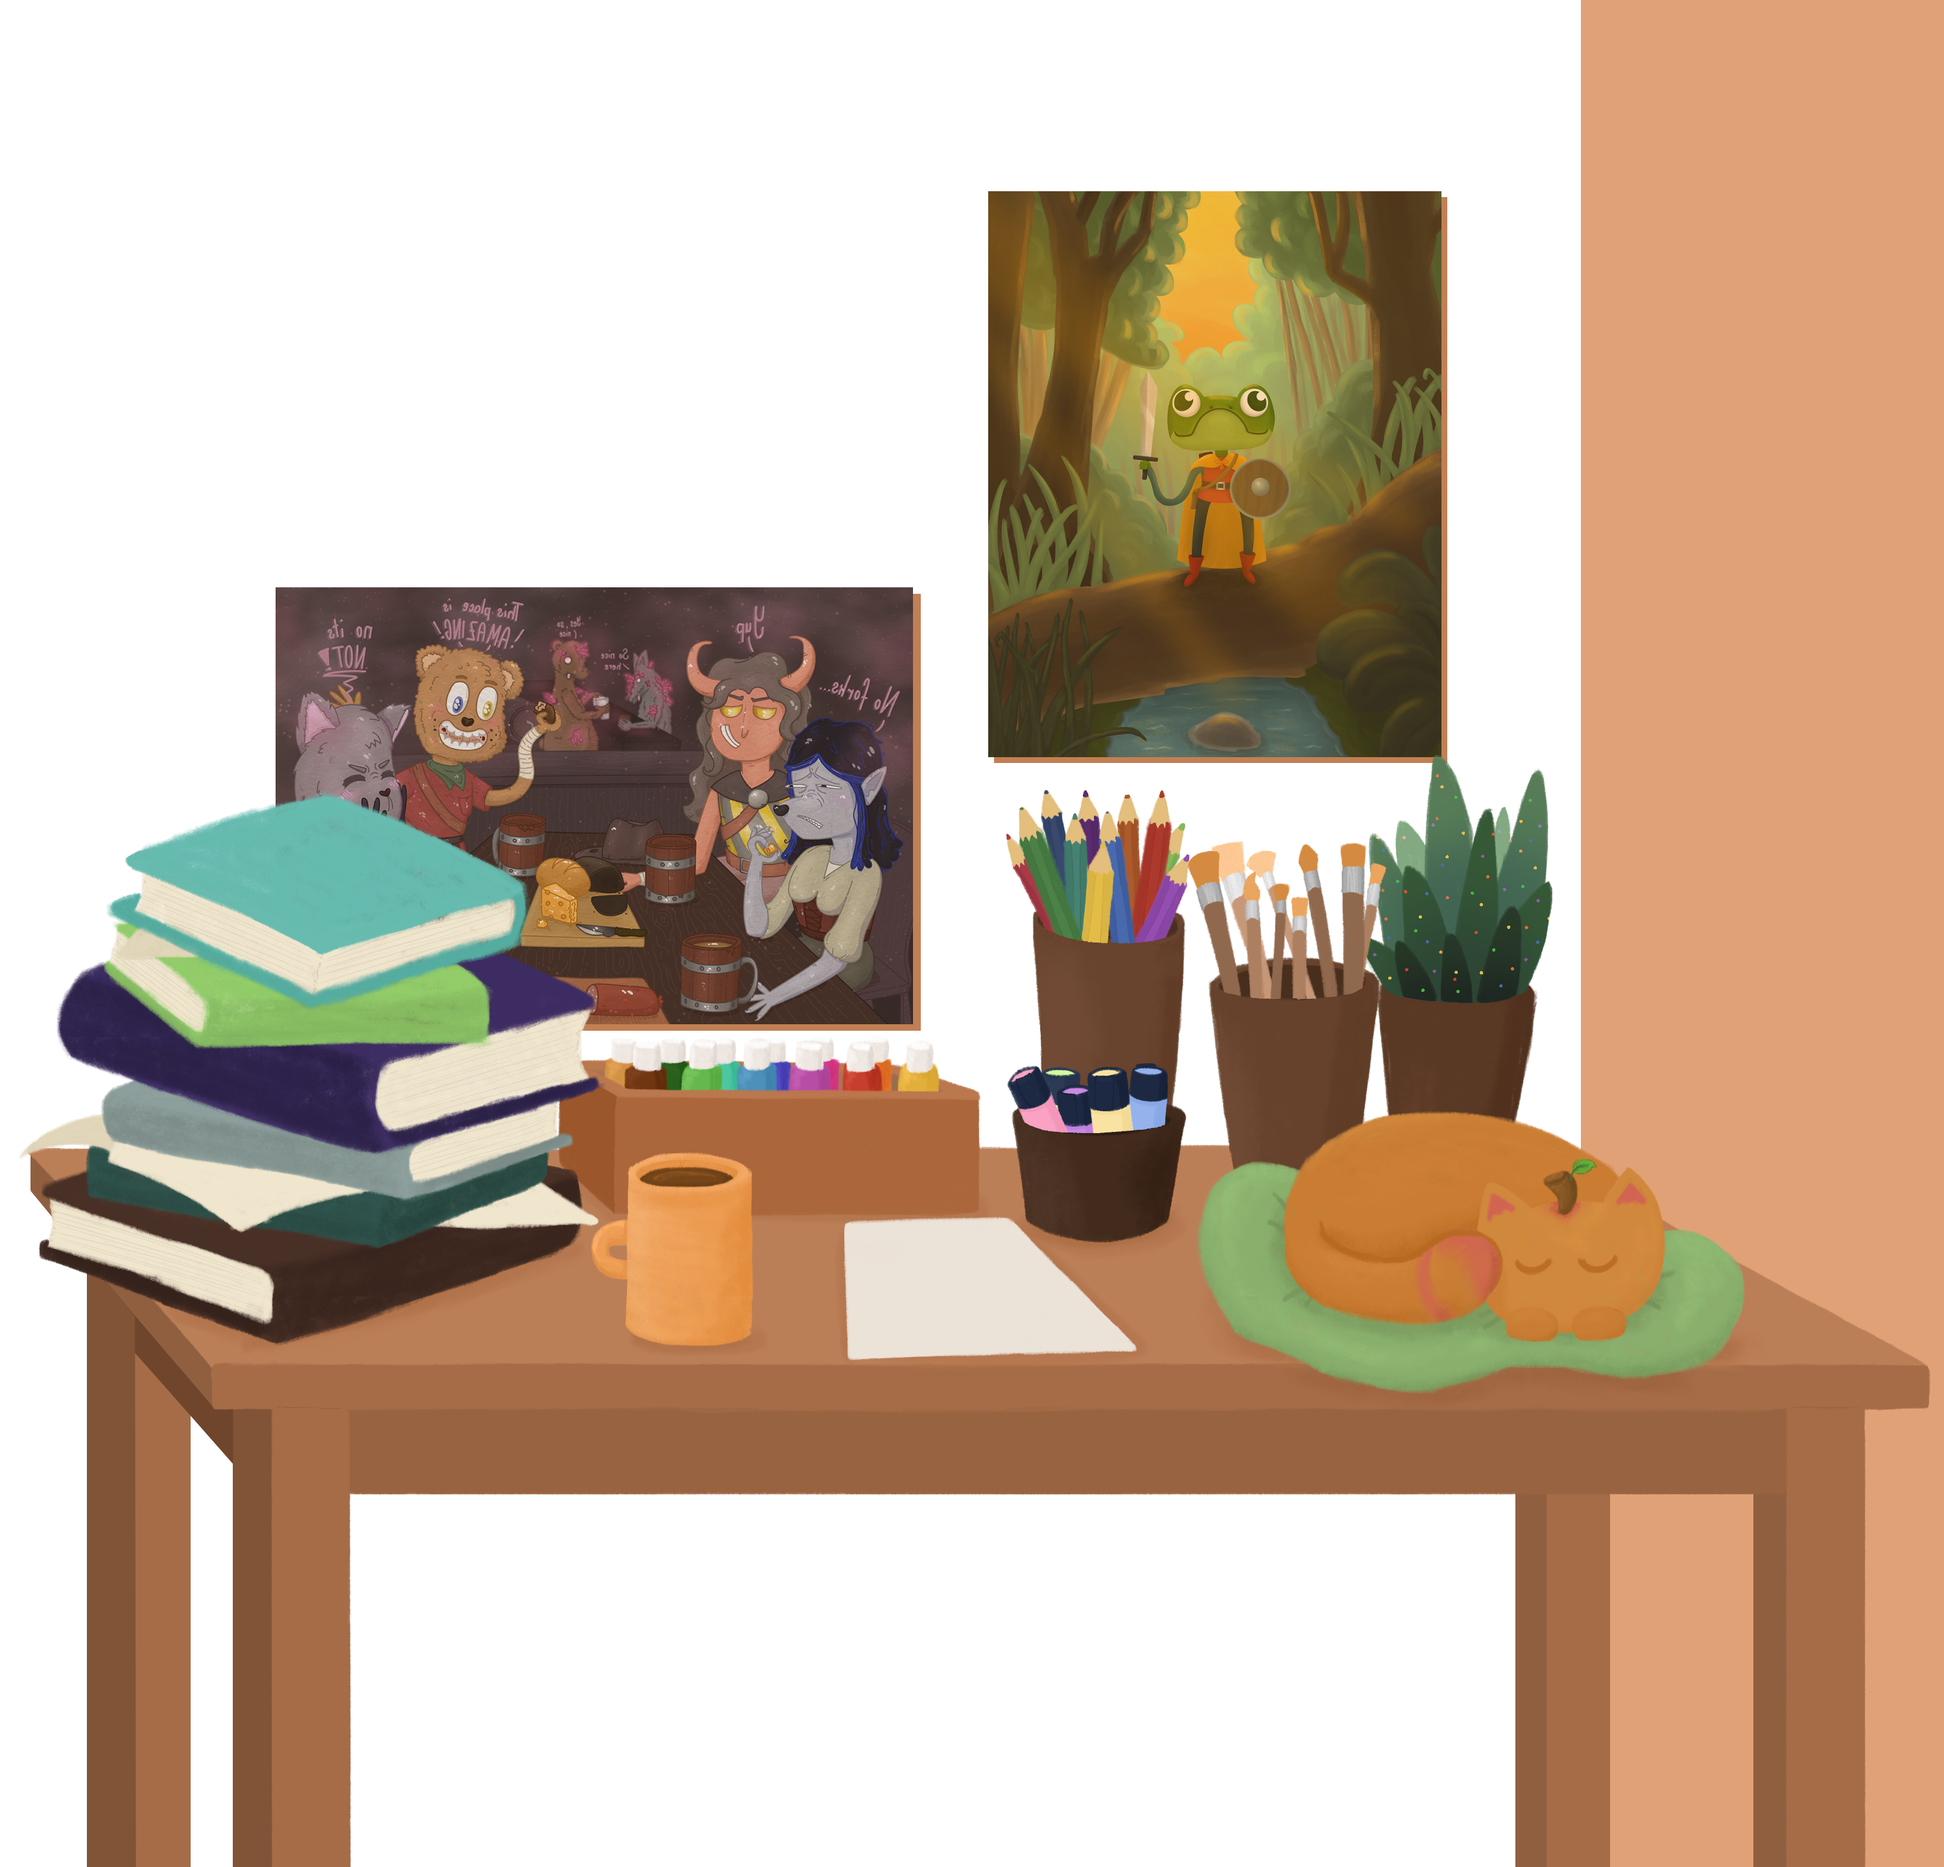
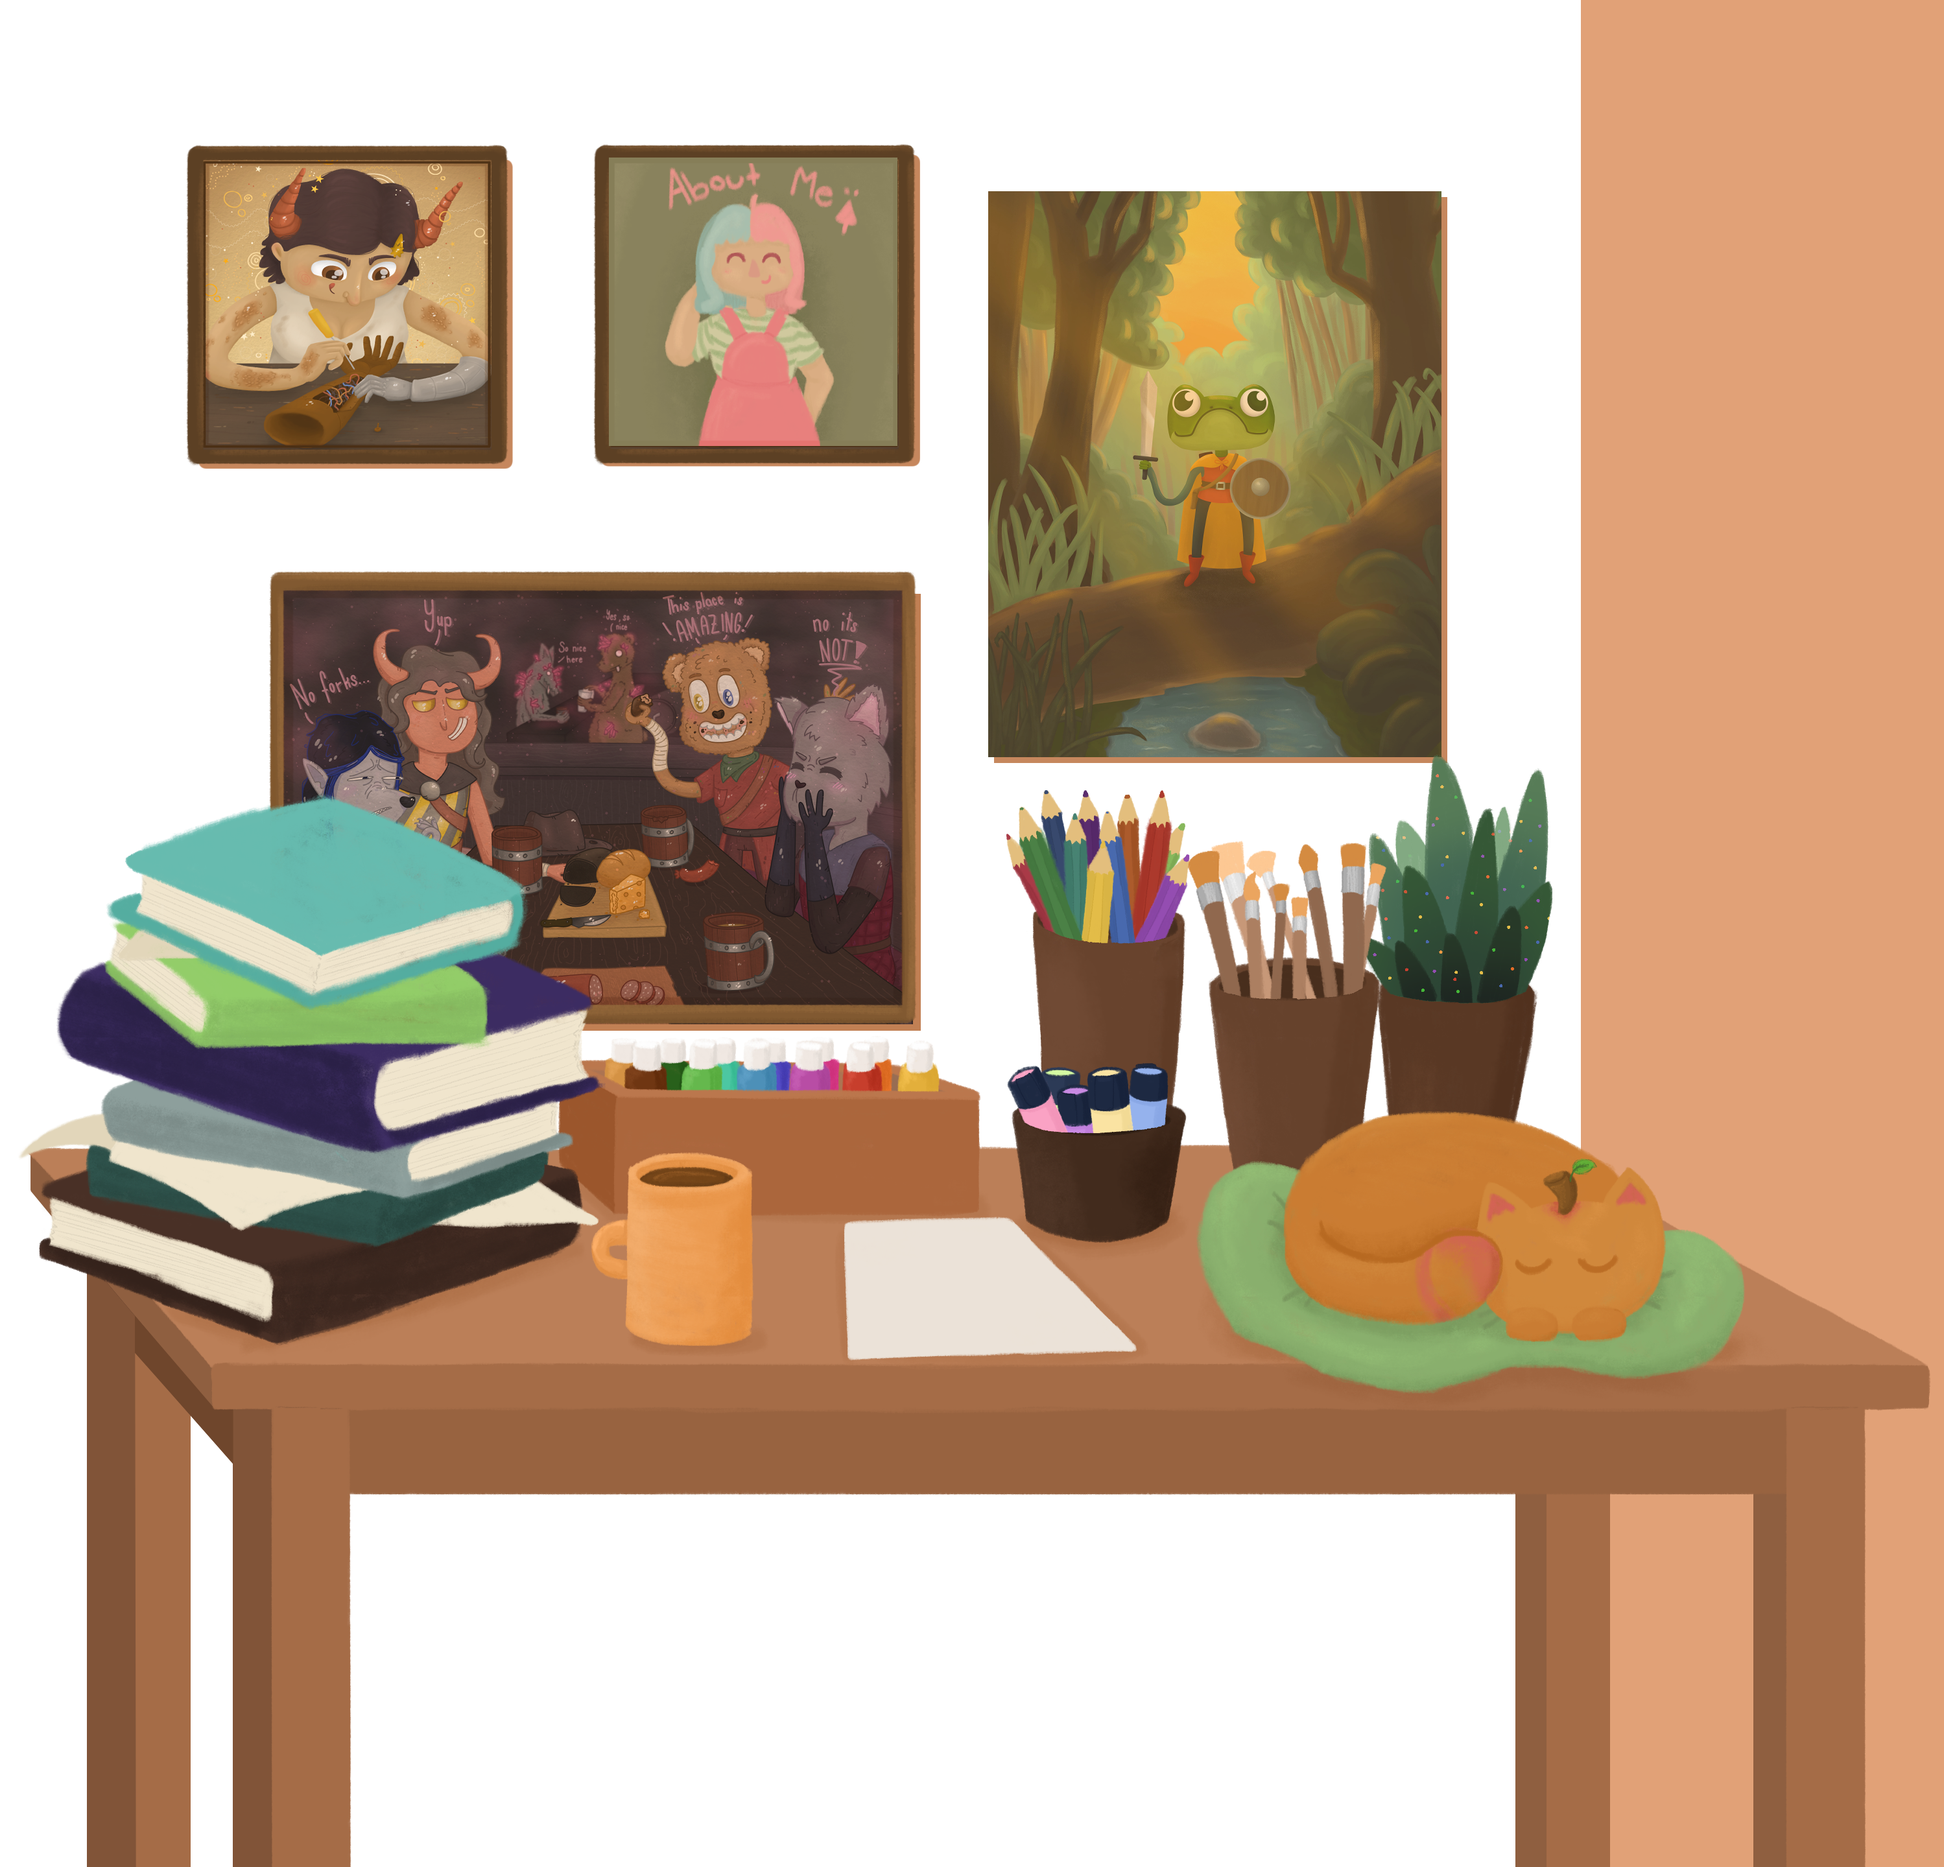
Added about me and fixed art page arrows

diff --git a/projects.html b/projects.html
@@ -16,7 +16,7 @@
             <h1>First Year Game Project</h1>
 
             <h2>Scene from a point and click adventure</h2>
-            <p>This was my first big project coding a video game (or at least part of one). It was done using css and I created all the assets myself.</p>
+            <p>This was my first big project coding a video game (or at least part of one). It was done using c++ and I created all the assets myself.</p>
             <p>The game is a scene from a point and click adventure, where we play as a little witch that becomes the local witch doctor. Patients visit her 
                 with their ailments and she has to find out what is wrong with them and how to treat them. From time to time we must set out to gather
                 new ingredients in the local forest, lake or mountains</p>
@@ -106,6 +106,65 @@
                     <img src="./static/uploads/project2/P2_Mascott.png" alt="project mascott sprite sheet" class="assets witch">
 
     </div>
+
+        <hr class="line">
+
+    <div class = "project" id="project3">
+
+            <h1>Second Year Website Group Project</h1>
+
+            <h2>Website for sharing art inspired by deviantart and pinterest</h2>
+            <p>This was my first project programming a website as part of a team. It was done using html and sveltekit and I was responsible for the profile page.</p>
+            <p>The game is a scene from a point and click adventure, where we play as a little witch that becomes the local witch doctor. Patients visit her 
+                with their ailments and she has to find out what is wrong with them and how to treat them. From time to time we must set out to gather
+                new ingredients in the local forest, lake or mountains</p>
+            <p>In this scene the witch is gather ingredients in the mountains where she stumbles upon a giant with a giant splinter in his foot.</p>
+            <img src="./static/uploads/project1/P1_Scene.png" alt="project scene" class="art scene">
+
+            <div class="container1">  
+                <div class="image">
+                    <img src="./static/uploads/project1/P1_Charactersketch.png" alt="project witch sketch" class="art sketch">
+                </div>
+            
+                <div class="text">
+                    <p>I spent a lot of time working on the art assets, creating multiple sketches and deciding on colour and design choices.</p>
+                    <p>I quickly landed on a design for the witch though I tried a couple different colour choices. At first her dress was
+                        purple, but I eventually landed on yellow to distinguish her from the blue background. </p>
+                </div>
+            </div>
+
+            <div class="container2">  
+
+                <div class="text">
+                    <p>I had a few designs for the mountain giant as I was not happy with my initial design. I wanted it to look like part of the scenery
+                        so I thought about making it look like the top of a mountain with a bit of snow as their hair, but I didn't like that initial design
+                        so I made it look more rock like instead. 
+                    </p>
+                </div>
+
+                <div class="image">
+                    <img src="./static/uploads/project1/P1_Giantsketch.png" alt="project giant sketch" class="art sketch">
+                </div>
+            </div>
+
+            <p>I created a bunch of assets and added to them as I was programming the game. I decided I wanted the cursor to change depending on what the player
+                is hovering over, so I created some small mouth, eye and hand symbols as well as small versions of the objects the player can collect. </p>
+
+            <img src="./static/uploads/project1/P1_Assets.png" alt="project asset spritesheet" class="assets objects">
+
+            <div class="container2">  
+
+                <div class="text">
+                    <p>I also created a spritesheet for the player character so it would have a simple walking and talking animation. </p>
+                </div>
+
+                <div class="image">
+                    <img src="./static/uploads/project1/P1_Witchsprite.png" alt="project giant sketch" class="assets witch">
+                </div>
+            </div>
+
+    </div>
+
 
 </body>
 </html>

diff --git a/art.html b/art.html
@@ -35,7 +35,7 @@
     </div>
 
         <div class="mySlides fade">
-        <img src="./static/uploads/Poster_Final.png" class="slideshow-image">
+        <img src="./static/uploads/Poster.png" class="slideshow-image">
         <div class="text">The beginning of an adventure</div>
     </div>
 
@@ -79,6 +79,16 @@
         <div class="text">Another dnd party (but this time at sea!)</div>
     </div>
 
+            <div class="mySlides fade">
+        <img src="./static/uploads/Poster_2.png" class="slideshow-image">
+        <div class="text">A poster design</div>
+    </div>
+
+            <div class="mySlides fade">
+        <img src="./static/uploads/Huxley_Turnaround.png" class="slideshow-image">
+        <div class="text">Character Turnaround</div>
+    </div>
+
     <!-- Next and previous buttons -->
     <a class="prev" onclick="plusSlides(-1)"><img src="./static/images/ArrowLeft.png" class="arrow" style="height: 10vh;"></a>
     <a class="next" onclick="plusSlides(1)"><img src="./static/images/ArrowRight.png" class="arrow" style="height: 10vh;"></a>
@@ -100,6 +110,8 @@
     <span class="dot" onclick="currentSlide(10)"></span>
     <span class="dot" onclick="currentSlide(11)"></span>
     <span class="dot" onclick="currentSlide(12)"></span>
+    <span class="dot" onclick="currentSlide(13)"></span>
+    <span class="dot" onclick="currentSlide(14)"></span>
     </div> 
 
 
@@ -173,6 +185,7 @@
         transition: 0.6s ease;
         border-radius: 0 3px 3px 0;
         user-select: none;
+        height: 10vh;
     }
 
     /* Position the "next button" to the right */
@@ -183,9 +196,27 @@
         display: block;
     }
 
+            /* For width 1500px and smaller: */
+    @media only screen and (max-width: 1500px) {
+        .prev, .next  {
+            transform: scale(0.5);
+        }
+    }
+
+                /* For width 1500px and smaller: */
+    @media only screen and (max-width: 800px) {
+        .prev, .next  {
+            top: 80%;
+        }
+    }
+
+
     /* On hover, add a black background color with a little bit see-through */
-    .prev:hover, .next:hover {
-        transform: scale(1.5); /* (150% zoom - Note: if the zoom is too large, it will go outside of the viewport) */
+
+        @media only screen and (min-width: 800px) {
+            .prev:hover, .next:hover {
+                transform: scale(1.5); /* (150% zoom - Note: if the zoom is too large, it will go outside of the viewport) */
+            }
     }
 
     /* Caption text */
@@ -223,8 +254,14 @@
     }
 
     @keyframes fade {
-        from {opacity: .4}
-        to {opacity: 1}
+   0% {
+      opacity: 0;
+      transform: translateX(-20px);
+   }
+   100% {
+      opacity: 1;
+      transform: translateX(0);
+   }
     }
 
 

diff --git a/about.html b/about.html
@@ -1,0 +1,131 @@
+<html lang="en">
+<head>
+    <meta charset="UTF-8">
+	<title>Animation</title>
+    
+<head>
+
+<body>
+  <div class = "aboutme">
+
+    <div class="container">  
+      
+      <div class="image">
+        <img src="./static/images/About_Me.png" alt="selfportrait" class="portrait">
+      </div>
+      
+      <div class="text">
+        <hr class="line">
+        <h1>About me</h1>
+          
+        <div class="logo">
+          <img src="./static/images/Apricat_noback.png" alt="project witch sketch" class="apricat">
+        </div>
+
+        <p>Hello I am Jasmin. I am an artist from Switzerland but I currently live and study in Ireland. I am a freelance artist making
+          character designs, animations and video games!</p>
+        <p>I don't really know what to write here. I chose orange for the background because of my little mascott, the Apricat! </p>
+        <p>I like cats, cakes and tabletop roleplaying games and I also craft my own earrings and charms from clay.</p>
+
+        <p>Please contact me for any inquiries at thecatfreyja@gmail.com or on instagram at apricat.jam!</p>
+          
+
+        <hr class="line">
+      </div>
+
+    </div>
+
+  </div>
+
+    <a href="index.html"><img src="./static/images/ArrowBack.png" alt="arrow back" class="arrowback"></a>
+
+</body>
+
+<style>
+
+  body {
+    background-color: #CF9168 ;
+  }
+
+  .aboutme{
+    position: absolute;
+    font-size: 100px;
+    font-family: 'Handwritten-Regular', sans-serif;
+    color: #53321d;
+    background-color: #e0a076;
+    margin: 2%;
+    padding: 2%;
+    border-radius: 25px;
+  }
+
+  
+    .arrowback{
+        height: 10vh;
+        z-index: 3;
+        position: fixed;
+        top: 10px;
+        left: 10px;
+    }
+  
+  .text{
+    font-family: 'Handwritten';
+    z-index: 2;
+    background-color: #cf916886;
+    border-radius: 25px;
+    padding: 2%;
+  }
+
+  h1 {
+    font-size: 50px;
+    margin-left: 1%;
+  }
+
+  p {
+    font-size: 20px;
+    margin-left: 5%;
+  }
+
+  .container {
+    display: grid;
+    align-items: center; 
+    grid-template-columns: 1fr 2fr;
+    column-gap: 10px;
+    margin: 10px;
+
+  }
+
+  .portrait{
+    max-height: 100%;
+    height: auto;
+    margin-top: 5%;
+    margin-left: 5%;
+  }
+
+  .apricat{
+    width: 300px;
+    float: right;
+  }
+
+  .line{
+    content: "";
+    width: 90%;
+    height: 3px;
+    background: linear-gradient(to right, transparent, #53321d, transparent);
+    border: none;
+    
+  }
+
+  .back {
+    position: fixed;
+    right: 20px;
+    top: 20px;
+    z-index: 2;
+  }
+  
+  .arrow {
+    width: 7rem;
+    height: 7rem;
+  }
+
+
+</style>

diff --git a/index.html b/index.html
@@ -30,6 +30,15 @@
 
     </section>
 
+    <section>
+
+         <div class="image-container2">
+                        <img src="./static/images/Me.png" alt="Menu Aisle" class="arrow">
+            <a href="about.html" class="click-area link_about"></a>
+        </div>
+
+    </section>
+
 </body>
 </html>
 
@@ -67,6 +76,7 @@
       position: relative;
       display: inline-block;
       height: 100%; 
+      z-index: 1;
     }
     .image-container img {
       height: 100%;
@@ -77,10 +87,57 @@
       position: absolute;
       display: block;
     }
+
     /* Hotspots for clickable boxes (percentages of image size) */
     .link_art { left: 18%; top: 20%; width: 58%; height: 18%;}
     .link_animation { left: 12%; top: 40%; width: 70%; height: 18%;}
     .link_projects { left: 15%; top: 60%; width: 67%; height: 18%;}
 
+    .image-container2 {
+      position: relative;
+      display: inline-block;
+      height: 17%; 
+      z-index: 2;
+      top: -92vh;
+      left: 90vh;
+      opacity: 0%;
+    }
+
+            /* For width 1500px and smaller: */
+    @media only screen and (max-width: 1500px) {
+        .image-container2 {
+            position: relative;
+            display: inline-block;
+            height: 17%; 
+            z-index: 2;
+            top: -92vh;
+            left: 57vh;
+            opacity: 0%;
+        }
+    }
+
+    
+            /* For width 1000px and smaller: */
+    @media only screen and (max-width: 1000px) {
+        .image-container2 {
+            position: relative;
+            display: inline-block;
+            height: 0%; 
+            top: 0vh;
+            left:0vh;
+            opacity: 0%;
+        }
+    }
+
+
+    .image-container2 img {
+      height: 100%;
+      width: auto;
+      display: block;
+    }
+
+    /* Hotspots for clickable boxes (percentages of image size) */
+    .link_about { left: 0%; top: 0%; width: 100%; height: 100%; background-color: blue; opacity: 0%;}
+    
 </style>
 
